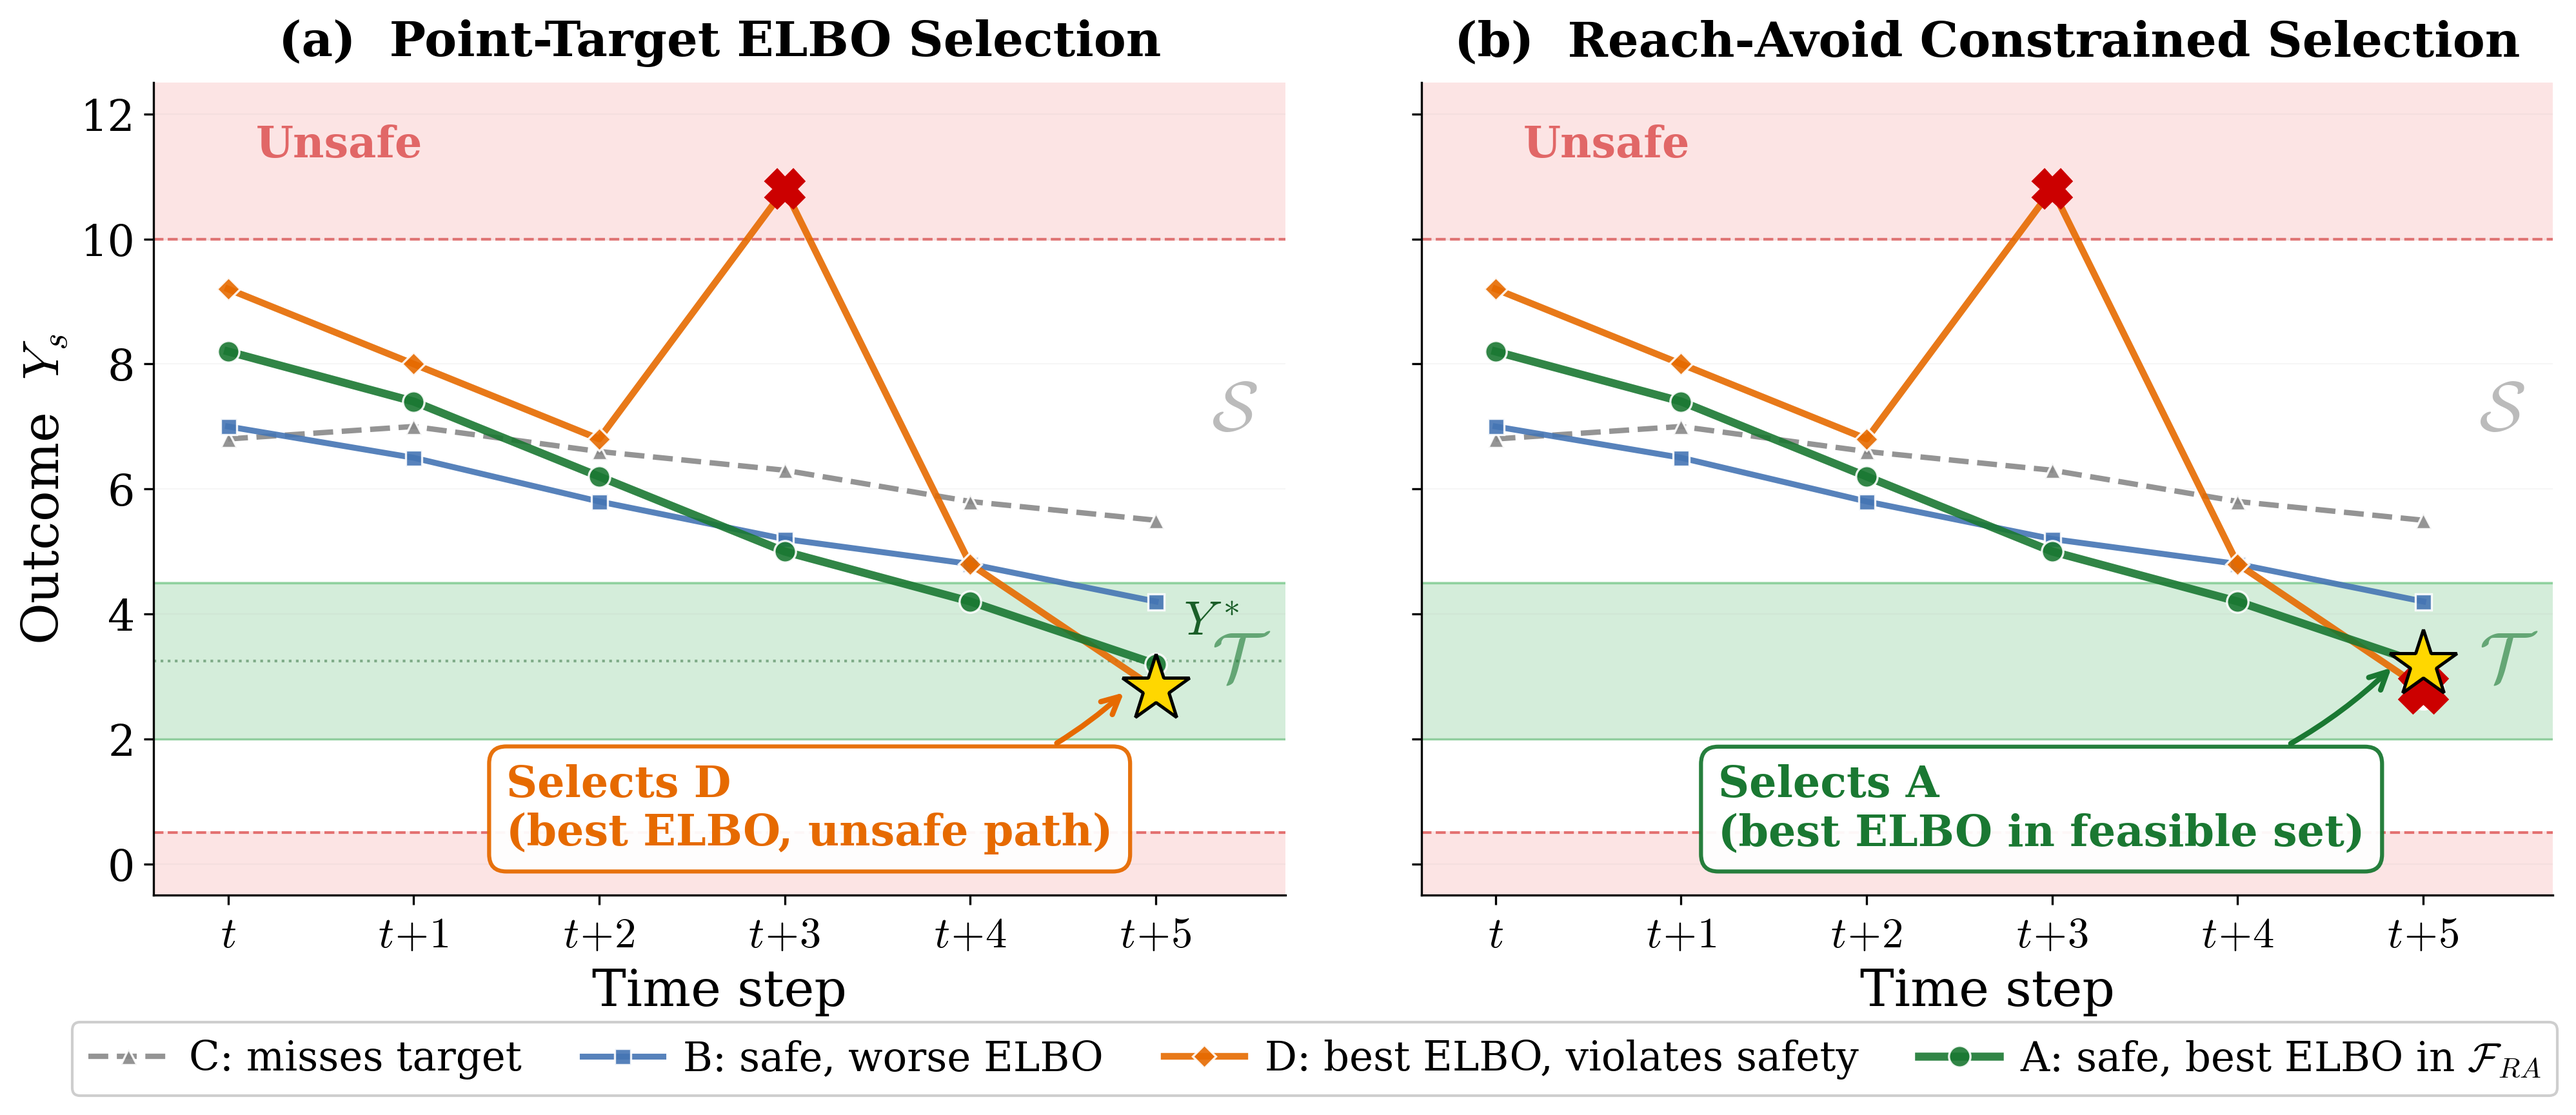
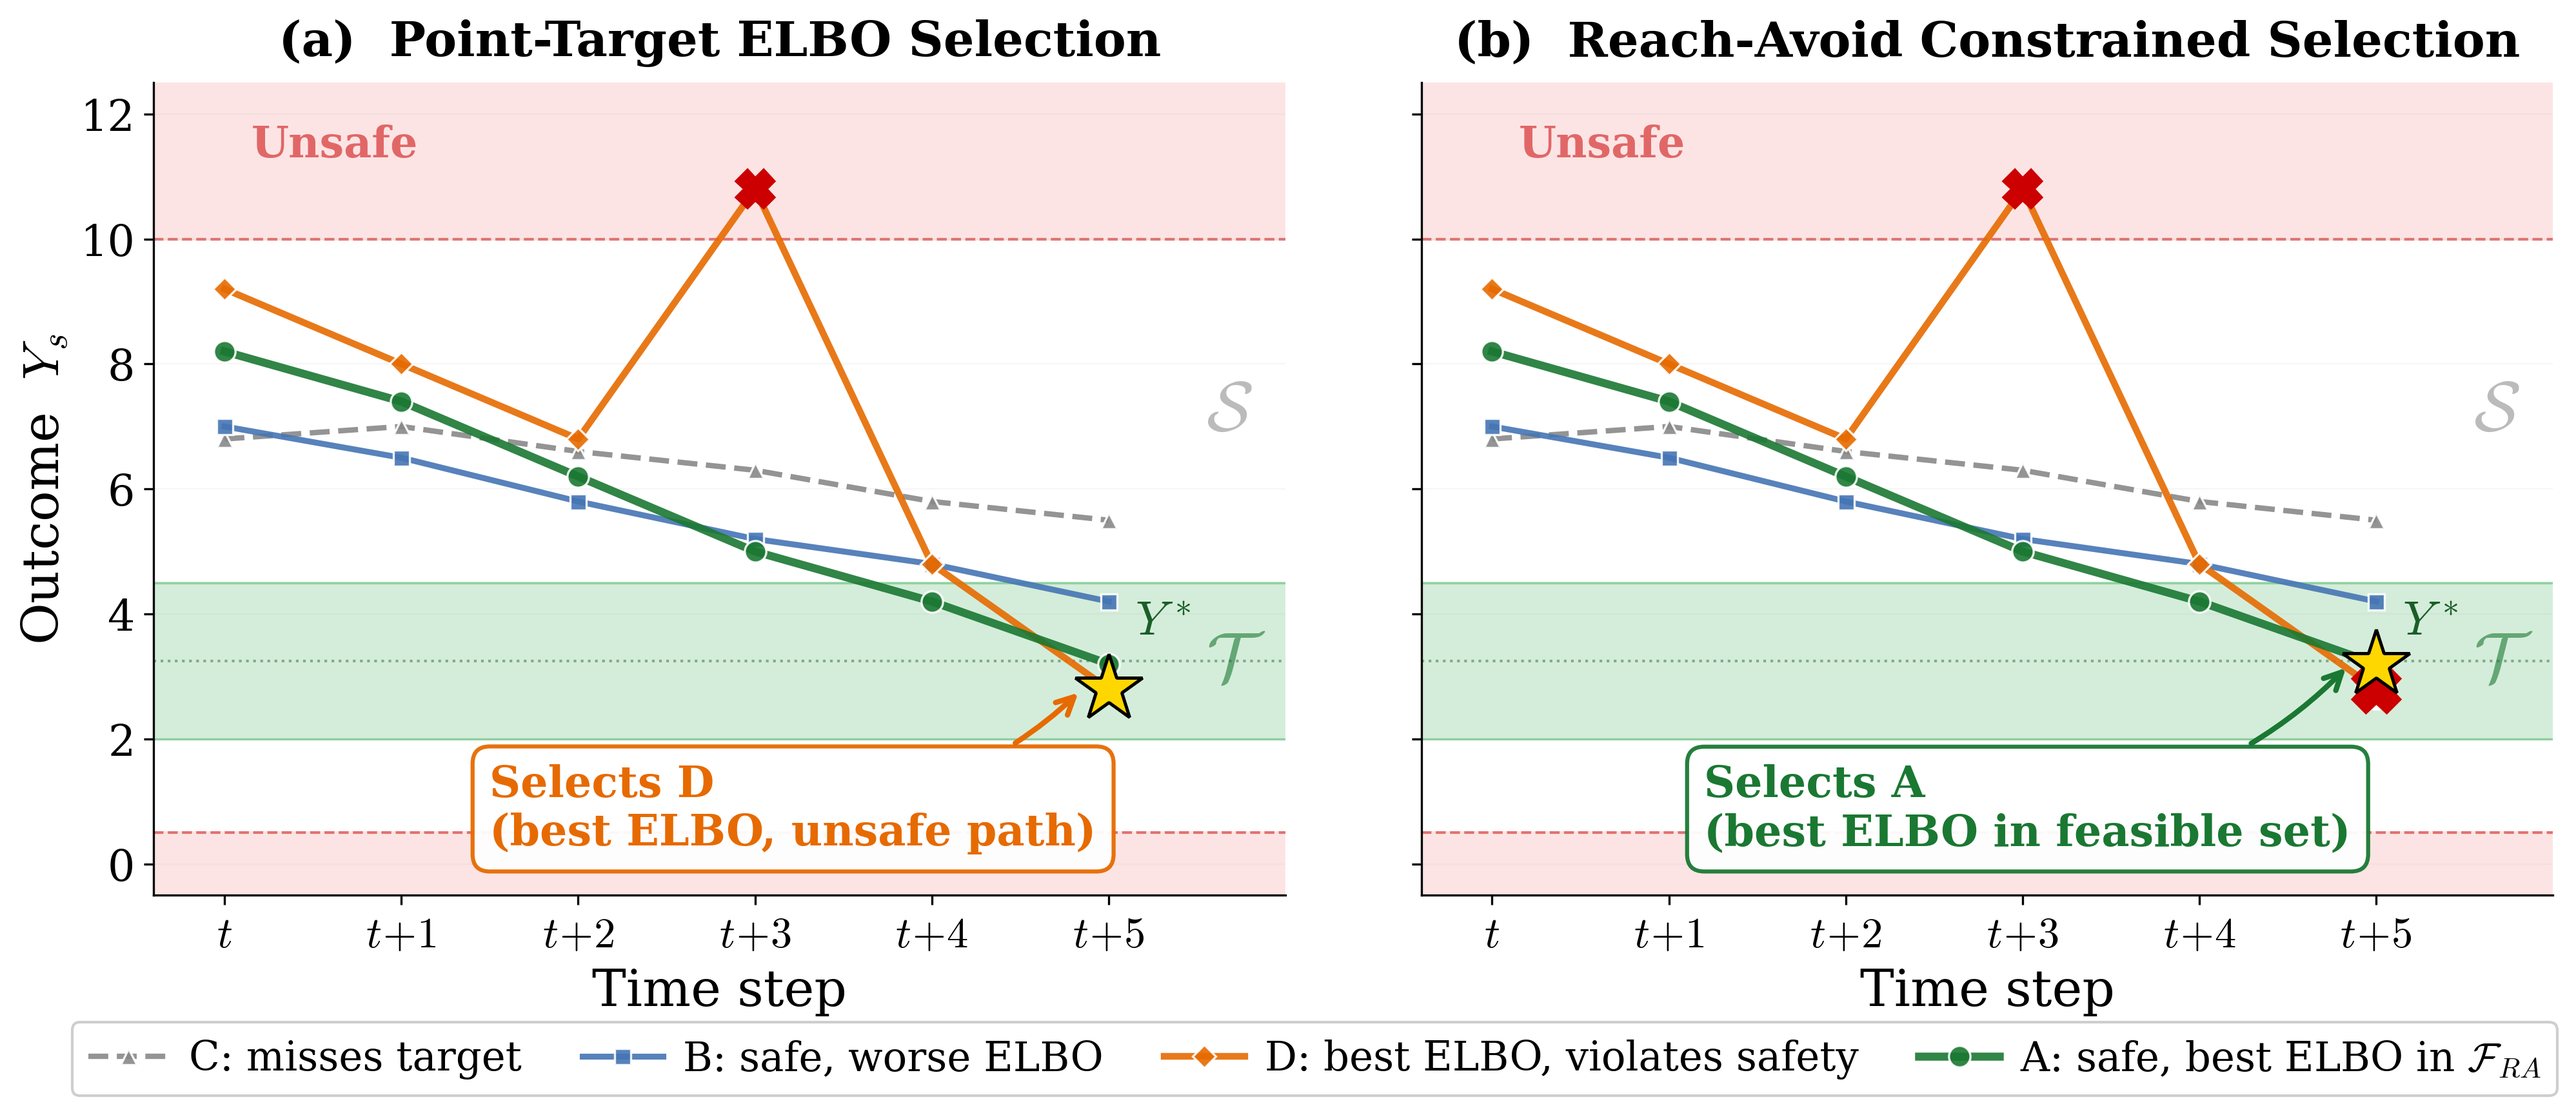
Show Y* on both panels, shift T label right to avoid overlap
Y* shown on both panels to clarify ELBO ranking within feasible set.
T and S labels shifted further right for clear separation from Y*.

diff --git a/lightning-hydra-template-main/src/reach_avoid/run_rc7_concept_figure.py b/lightning-hydra-template-main/src/reach_avoid/run_rc7_concept_figure.py
@@ -57,7 +57,7 @@ LABELS = {
 
 
 def draw_panel(ax, selected, rejected, annot_label, annot_color,
-               annot_xytext=(1.8, 0.5), show_ystar=False):
+               annot_xytext=(1.8, 0.5)):
 
     # ── Regions ──
     ax.axhspan(S_hi, 12.5, color='#fce4e4', zorder=0)     # unsafe top
@@ -70,16 +70,16 @@ def draw_panel(ax, selected, rejected, annot_label, annot_color,
     ax.axhline(T_hi, color='#28a745', ls='-',  lw=0.8, alpha=0.4, zorder=1)
     ax.axhline(T_lo, color='#28a745', ls='-',  lw=0.8, alpha=0.4, zorder=1)
 
-    if show_ystar:
-        ax.axhline(Y_STAR, color='#1a5e28', ls=':', lw=1.0, alpha=0.45, zorder=1)
-        ax.text(tau + 0.15, Y_STAR + 0.25, '$Y^*$', fontsize=18,
-                color='#1a5e28', va='bottom', ha='left')
+    # Y* line (always shown — it's the ELBO target)
+    ax.axhline(Y_STAR, color='#1a5e28', ls=':', lw=1.0, alpha=0.45, zorder=1)
+    ax.text(tau + 0.15, Y_STAR + 0.25, '$Y^*$', fontsize=18,
+            color='#1a5e28', va='bottom', ha='left')
 
-    # ── Region labels ──
-    ax.text(tau + 0.3, (T_lo + T_hi) / 2, r'$\mathcal{T}$',
+    # ── Region labels (shifted further right to avoid Y* overlap) ──
+    ax.text(tau + 0.55, (T_lo + T_hi) / 2, r'$\mathcal{T}$',
             fontsize=26, fontweight='bold', color='#1a7832',
             va='center', ha='left', alpha=0.6)
-    ax.text(tau + 0.3, (T_hi + S_hi) / 2, r'$\mathcal{S}$',
+    ax.text(tau + 0.55, (T_hi + S_hi) / 2, r'$\mathcal{S}$',
             fontsize=26, fontweight='bold', color='#555555',
             va='center', ha='left', alpha=0.4)
     ax.text(0.15, 11.5, 'Unsafe',
@@ -127,7 +127,7 @@ def draw_panel(ax, selected, rejected, annot_label, annot_color,
                 markeredgewidth=3.0, zorder=6)
 
     # ── Axes ──
-    ax.set_xlim(-0.4, tau + 0.7)
+    ax.set_xlim(-0.4, tau + 1.0)
     ax.set_ylim(-0.5, 12.5)
     ax.set_xticks(ts)
     xlabels = ['$t$'] + ['$t{\\!+\\!}' + str(s) + '$' for s in range(1, tau + 1)]
@@ -148,8 +148,7 @@ def main():
     # (a) ELBO picks D
     draw_panel(ax_l, selected='D', rejected=[],
                annot_label='Selects D\n(best ELBO, unsafe path)',
-               annot_color='#e66a00', annot_xytext=(1.5, 0.3),
-               show_ystar=True)
+               annot_color='#e66a00', annot_xytext=(1.5, 0.3))
     ax_l.set_ylabel('Outcome  $Y_s$', fontsize=19)
     ax_l.set_title('(a)  Point-Target ELBO Selection',
                     fontsize=18, fontweight='bold', pad=10)
@@ -157,8 +156,7 @@ def main():
     # (b) RA picks A (D rejected for safety; B feasible but worse ELBO)
     draw_panel(ax_r, selected='A', rejected=['D'],
                annot_label='Selects A\n(best ELBO in feasible set)',
-               annot_color='#1a7832', annot_xytext=(1.2, 0.3),
-               show_ystar=False)
+               annot_color='#1a7832', annot_xytext=(1.2, 0.3))
     ax_r.set_title('(b)  Reach-Avoid Constrained Selection',
                     fontsize=18, fontweight='bold', pad=10)
 
